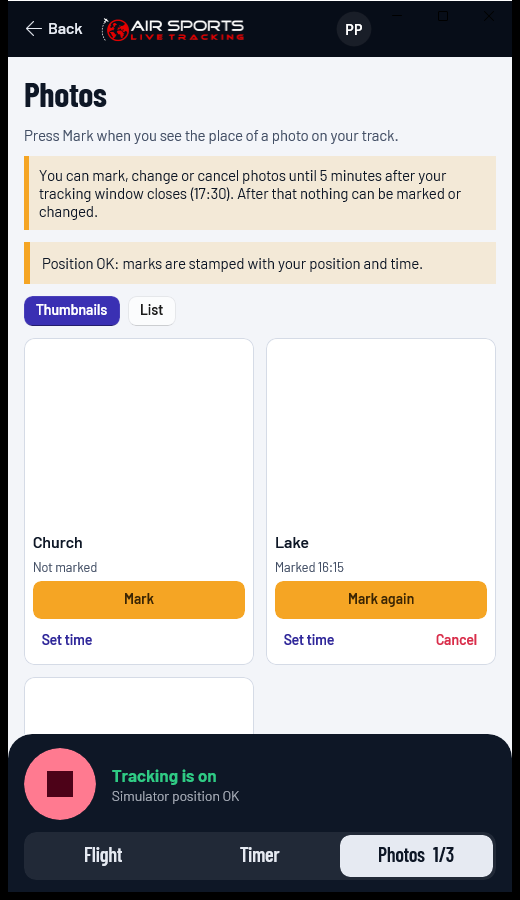
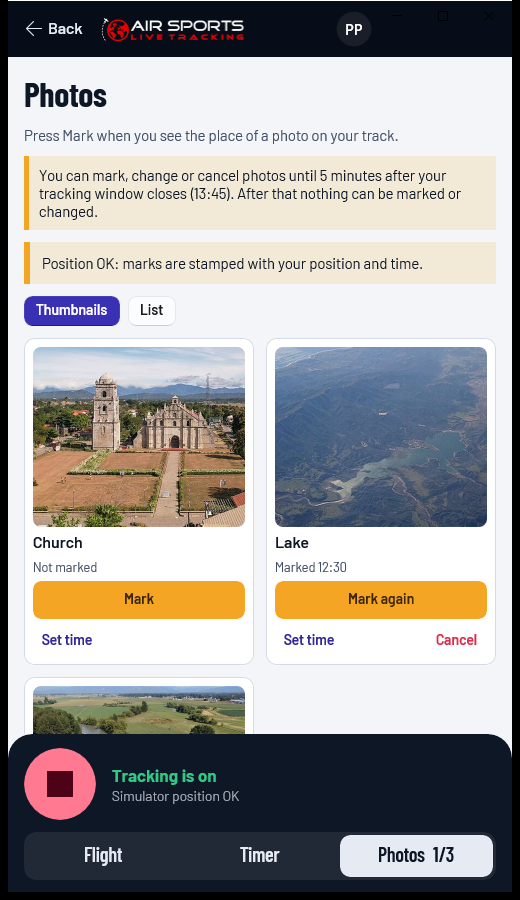
Preview: sample photos for the photo observations
The preview mode's photo observations had no images, so the Photos screenshot showed blank cards. Three CC0 aerial
photos from Wikimedia Commons (church, lake, bridge), scaled down to 480x360, are now the sample photos, credited in
THIRD-PARTY-NOTICES.md. The flightsim.to Photos screenshot is retaken with them.

Claude-Session: https://claude.ai/code/session_01YTWiLzcPPSR924z5nd2dkD

diff --git a/msfsclient/Services/PreviewMode.cs b/msfsclient/Services/PreviewMode.cs
@@ -103,7 +103,7 @@ namespace msfsclient.Services
                 else if (path.Contains("observation_photos"))
                     json = $$"""
                         {"enabled":true,"may_register":true,"registration_closes_at":"{{Iso(now.AddMinutes(65))}}","registration_grace_minutes":5,
-                         "photos":[{"id":1,"name":"Church","file":null},{"id":2,"name":"Lake","file":null},{"id":3,"name":"Bridge","file":null}],
+                         "photos":[{"id":1,"name":"Church","file":"ms-appx:///Assets/Preview/church.jpg"},{"id":2,"name":"Lake","file":"ms-appx:///Assets/Preview/lake.jpg"},{"id":3,"name":"Bridge","file":"ms-appx:///Assets/Preview/bridge.jpg"}],
                          "observations":[{"id":1,"photo":2,"photo_name":"Lake","time":"{{started}}"}]}
                         """;
                 else if (path.Contains("photo_observations"))

diff --git a/THIRD-PARTY-NOTICES.md b/THIRD-PARTY-NOTICES.md
@@ -14,6 +14,14 @@ This repository contains files that are not covered by this project's license (G
 - Copyright 2017 The Barlow Project Authors (https://github.com/jpt/barlow).
 - License: SIL Open Font License, Version 1.1 (https://openfontlicense.org).
 
+## Sample photos for the preview mode
+- Files: `msfsclient/Assets/Preview/*.jpg`, cropped and scaled down. Only `--preview` shows them, as sample photo
+  observations.
+- From Wikimedia Commons, released into the public domain (CC0 1.0) by their authors:
+  - `church.jpg`: "San Agustin Church Aerial View, Paoay, Ilocos Norte.jpg"
+  - `lake.jpg`: "Aerial photograph of Lake Cachuma, CA.jpg"
+  - `bridge.jpg`: "Aerial view of Bridge over Nooksack River 2019.jpg"
+
 ## NuGet packages
 The client uses NuGet packages, for example the Windows App SDK, CommunityToolkit.Mvvm, Microsoft.Data.Sqlite,
 FirebaseAuthentication.net and Sentry. They are downloaded at build time, are not part of this repository, and come
